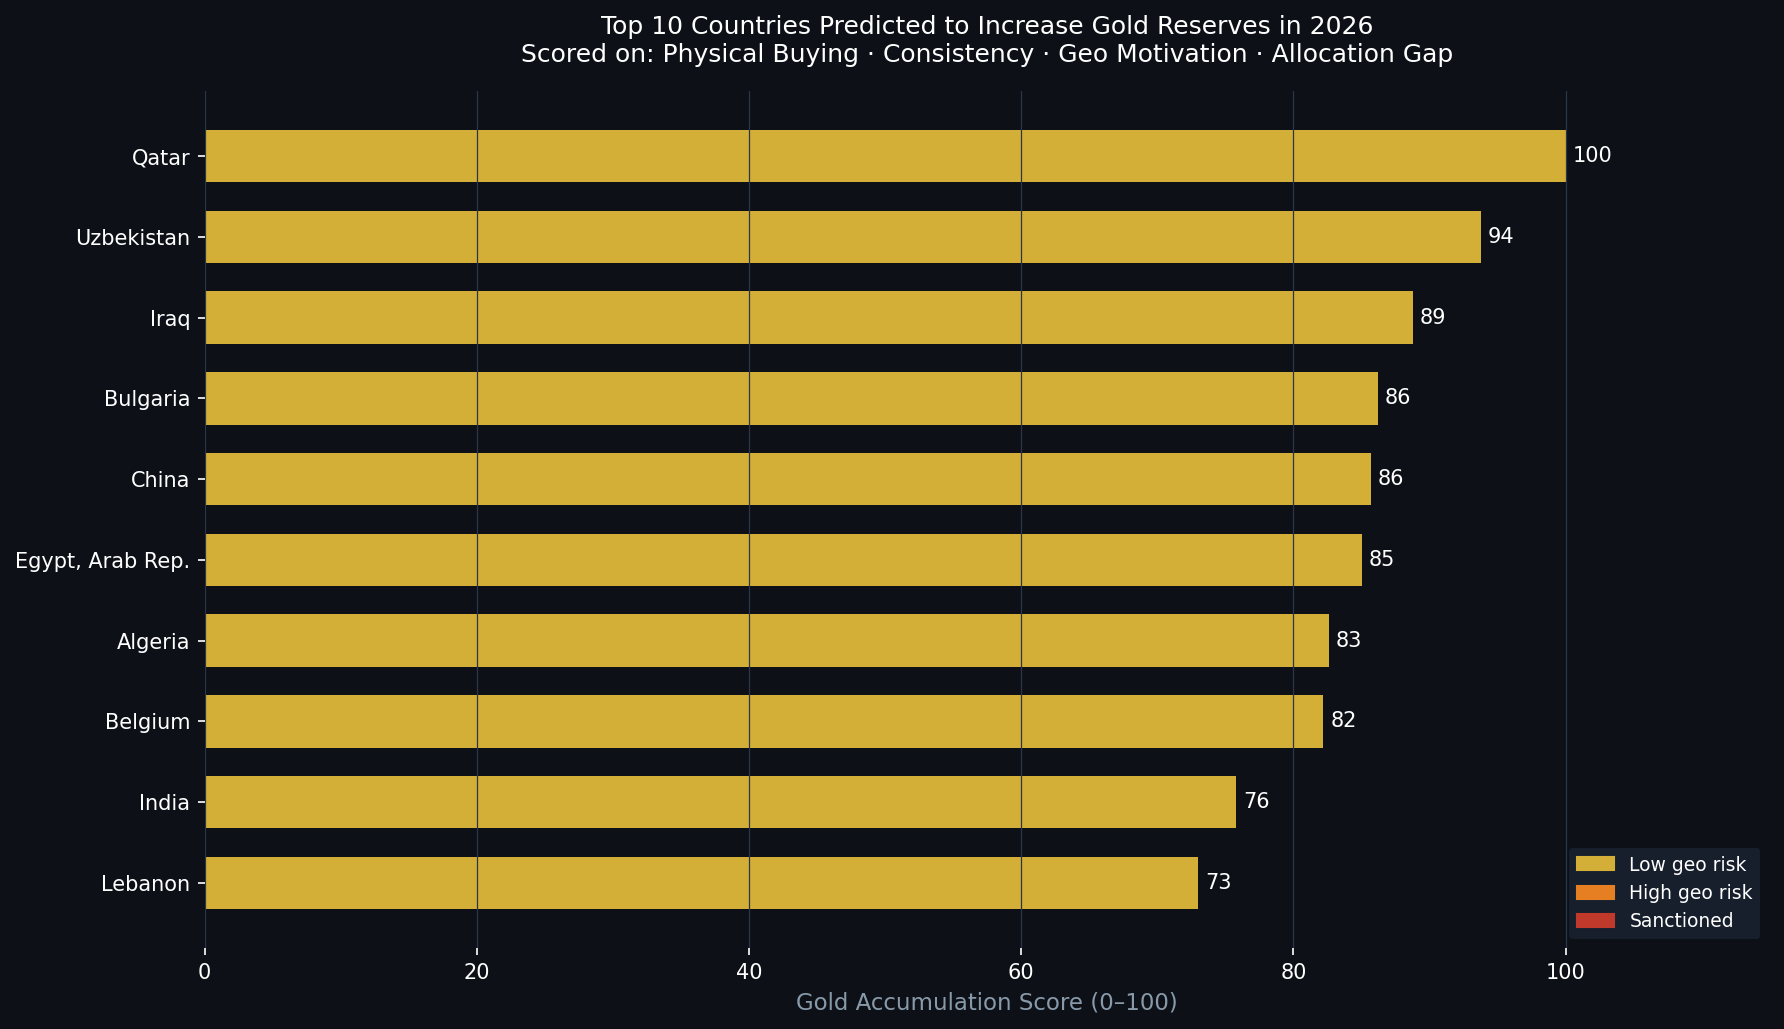
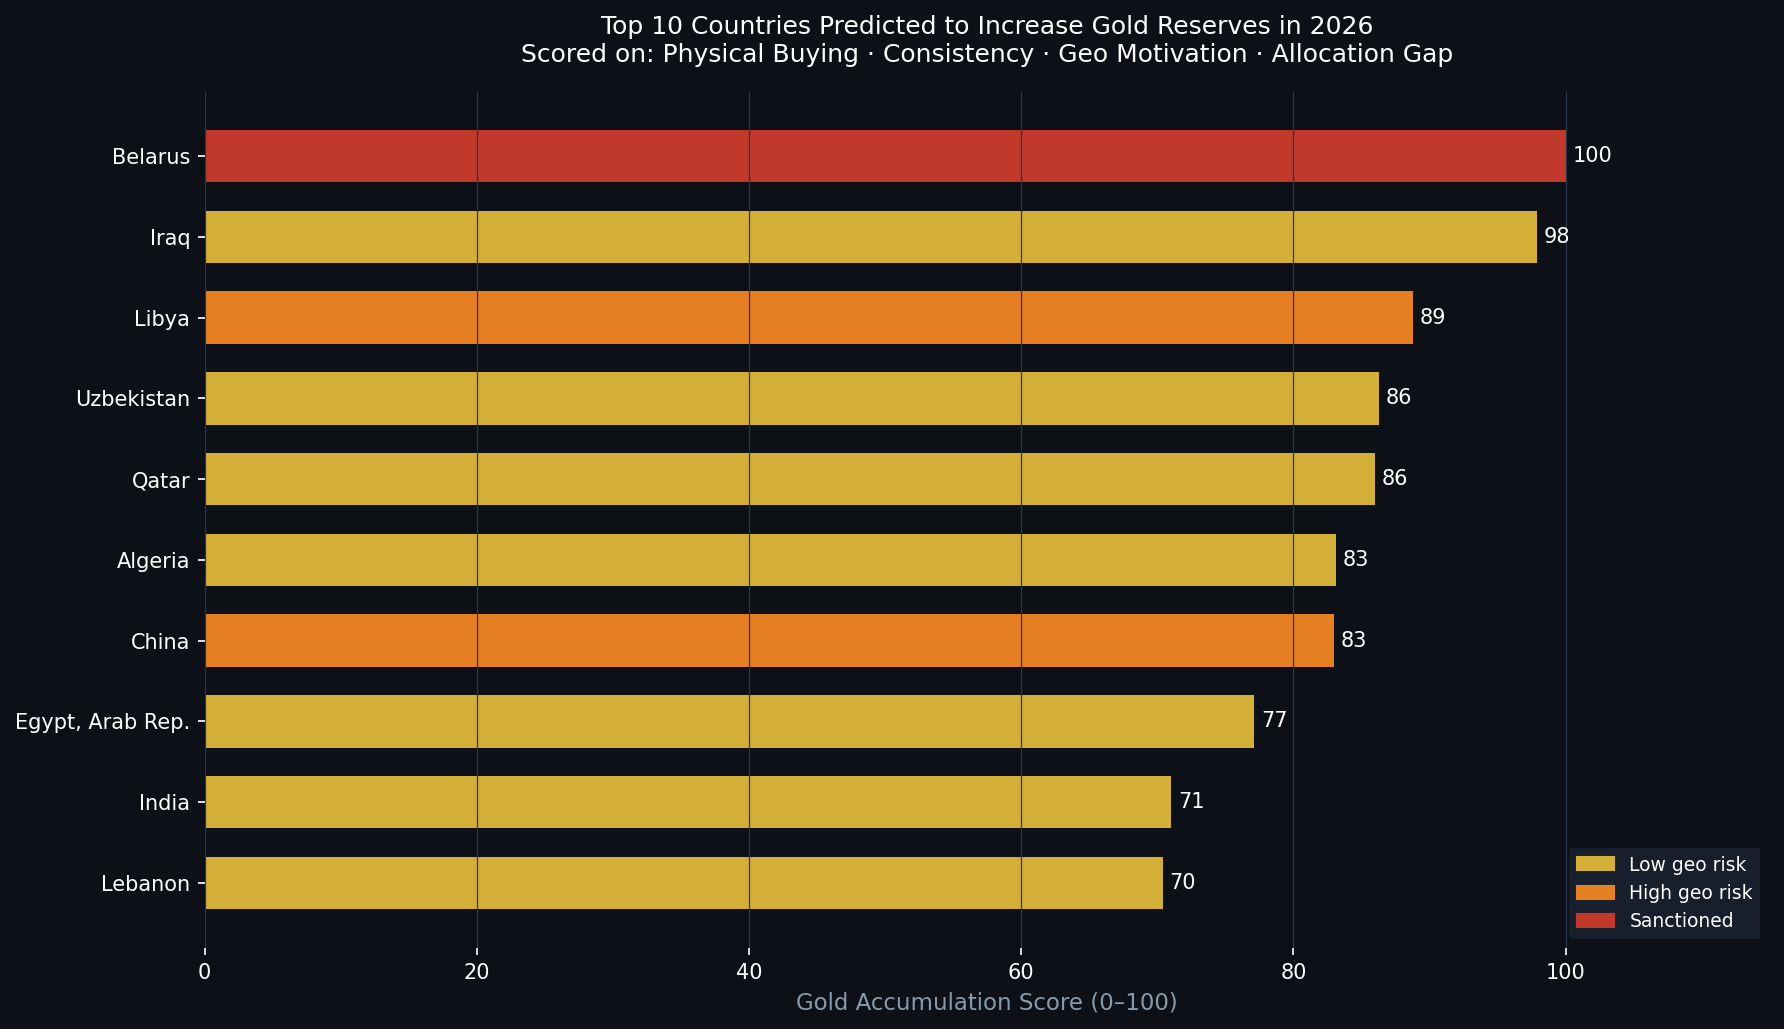
Fix ML predictions page — stale scores data and pillar column mismatch
Two bugs:
1. ml_country_scores.csv was stale — generated before geopolitical data
   was fully populated. Re-ran score_countries.py: Belarus now #1
   (sanctions=2, geo=high), Libya/Iraq rank with correct sanctions scores,
   China correctly shows geo_bloc=us_divergent and geo=high.
   All countries now have accurate un_divergence_score, sanctions_score,
   geo_risk_tier, and geo_bloc values.

2. app.py pillar breakdown expected p1_momentum/p2_consistency/p3_geopolitical/
   p4_allocation but scoring script saves pillar_momentum/pillar_consistency/
   pillar_geo/pillar_alloc. Zero matches → 4-pillar charts never rendered,
   only showed "re-run scoring script" info message. Fixed column names.

diff --git a/app.py b/app.py
@@ -940,10 +940,10 @@ elif page == "🤖 ML Predictions":
     )
 
     pillar_cols = {
-        "Pillar 1: Physical Buying Momentum": "p1_momentum",
-        "Pillar 2: Buying Consistency":       "p2_consistency",
-        "Pillar 3: Geopolitical Motivation":  "p3_geopolitical",
-        "Pillar 4: Strategic Allocation Gap": "p4_allocation",
+        "Pillar 1: Physical Buying Momentum": "pillar_momentum",
+        "Pillar 2: Buying Consistency":       "pillar_consistency",
+        "Pillar 3: Geopolitical Motivation":  "pillar_geo",
+        "Pillar 4: Strategic Allocation Gap": "pillar_alloc",
     }
 
     available_pillars = {k: v for k, v in pillar_cols.items() if v in scores.columns}
